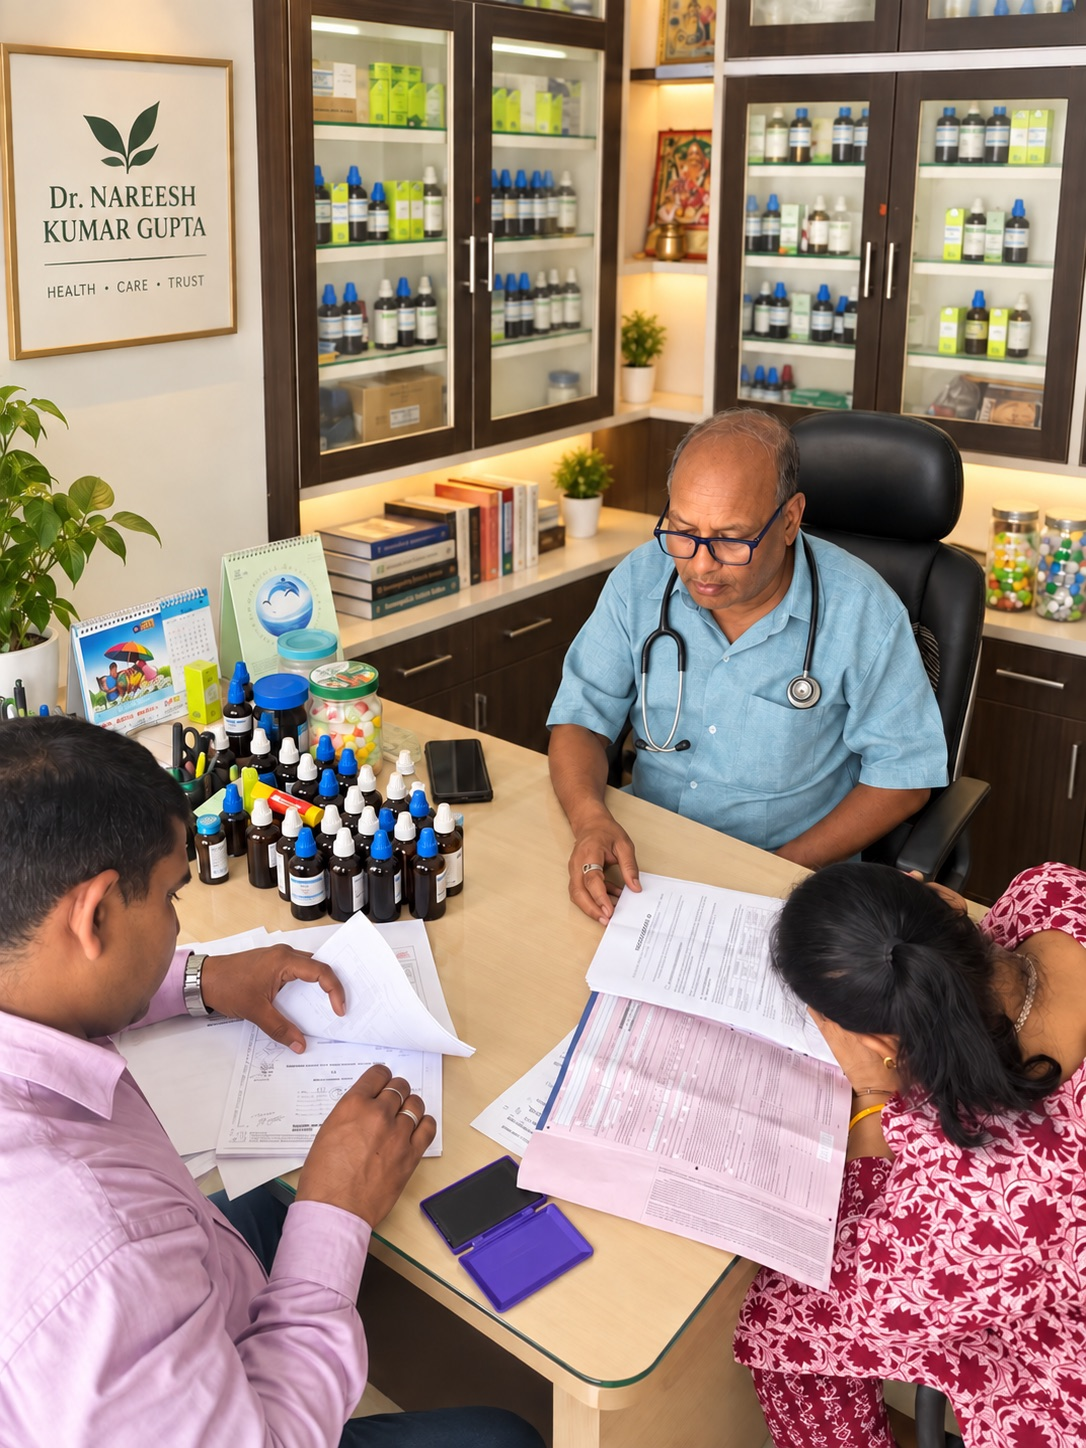
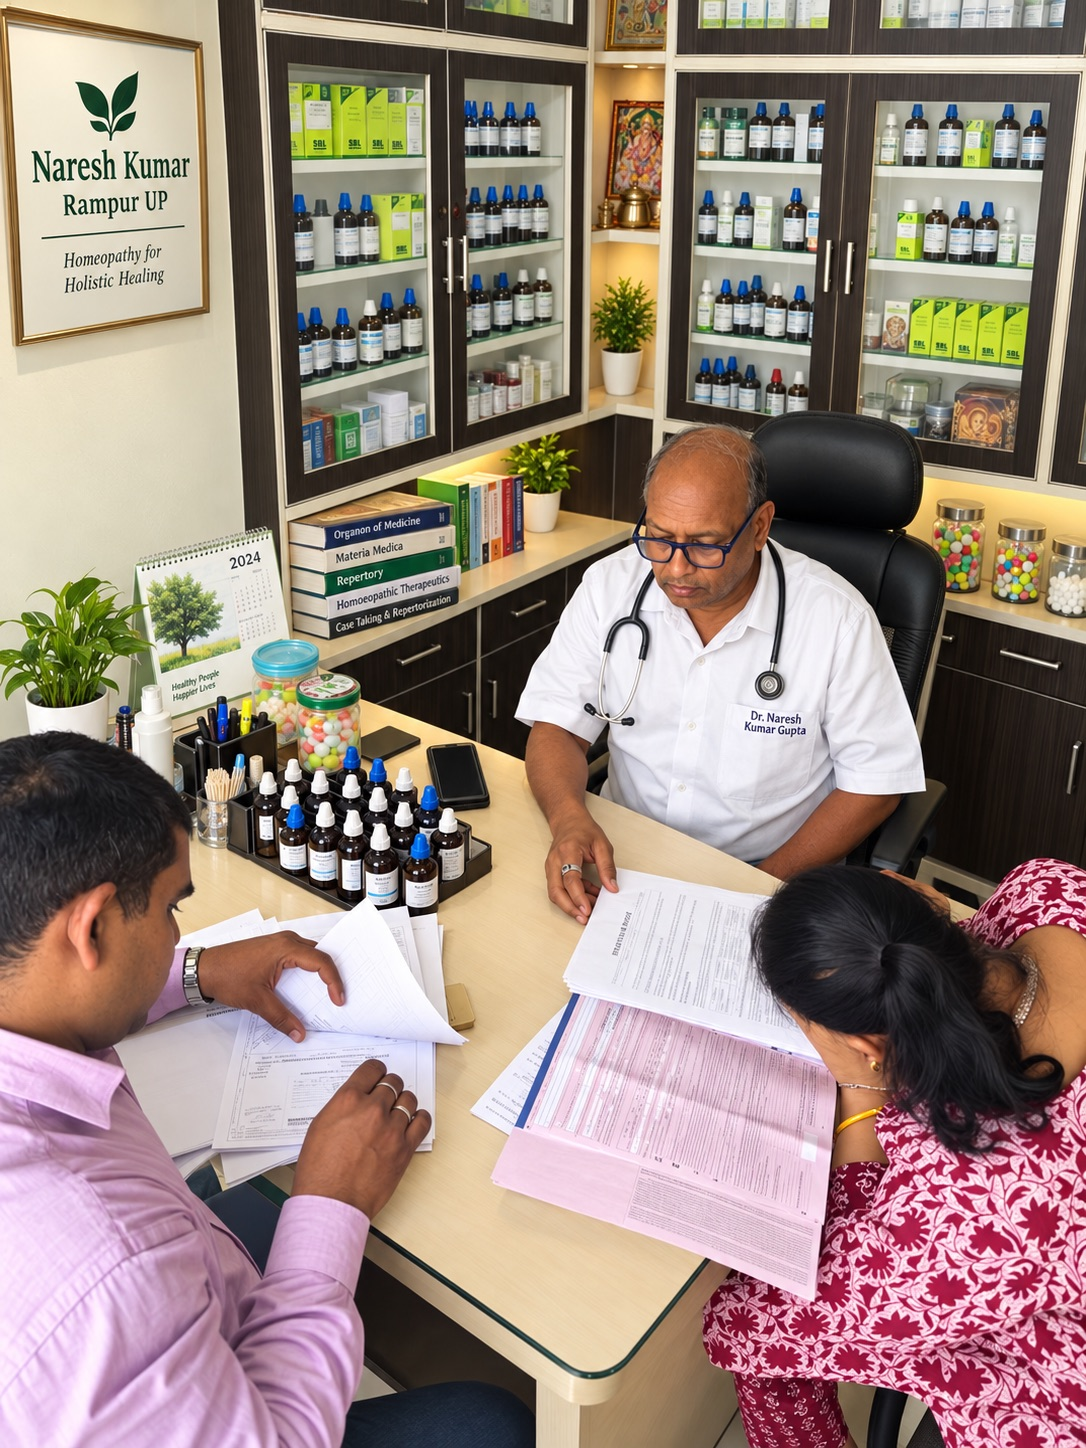
नई क्लिनिक फ़ोटो (हीरो) और 'होम्योपैथी ही क्यों' सेक्शन में पोस्टर जोड़ा

diff --git a/app/page.js b/app/page.js
@@ -3,6 +3,7 @@ import Link from 'next/link';
 import { site } from '../lib/siteConfig';
 import doctorPhoto from '../public/doctor-clinic.jpg';
 import doctorPortrait from '../public/doctor-portrait.jpg';
+import doctorPoster from '../public/doctor-poster.jpg';
 import bottlesPhoto from '../public/homeo-bottles.jpg';
 import globulesPhoto from '../public/homeo-globules.jpg';
 
@@ -356,16 +357,25 @@ export default function Home() {
         </section>
 
         <section className="section" id="why">
-          <div className="container">
-            <h2>होम्योपैथी ही क्यों?</h2>
-            <div className="why-grid">
-              {whyPoints.map((w) => (
-                <div className="why-item" key={w.title}>
-                  <h3>{w.title}</h3>
-                  <p>{w.desc}</p>
-                </div>
-              ))}
+          <div className="container split">
+            <div className="split-text">
+              <h2>होम्योपैथी ही क्यों?</h2>
+              <div className="why-stack">
+                {whyPoints.map((w) => (
+                  <div className="why-item" key={w.title}>
+                    <h3>{w.title}</h3>
+                    <p>{w.desc}</p>
+                  </div>
+                ))}
+              </div>
             </div>
+            <figure className="split-photo portrait">
+              <Image
+                src={doctorPoster}
+                alt="होम्योपैथी: सुरक्षित, प्राकृतिक एवं संपूर्ण चिकित्सा"
+                sizes="(min-width: 720px) 400px, 82vw"
+              />
+            </figure>
           </div>
         </section>
 

diff --git a/app/globals.css b/app/globals.css
@@ -479,9 +479,8 @@ section[id] {
 }
 
 /* ---------- why ---------- */
-.why-grid {
+.why-stack {
   display: grid;
-  grid-template-columns: 1fr;
   gap: 18px;
   margin-top: 10px;
 }
@@ -869,10 +868,6 @@ section[id] {
 
   .cards {
     grid-template-columns: repeat(2, 1fr);
-  }
-
-  .why-grid {
-    grid-template-columns: repeat(3, 1fr);
   }
 
   .contact-grid {
